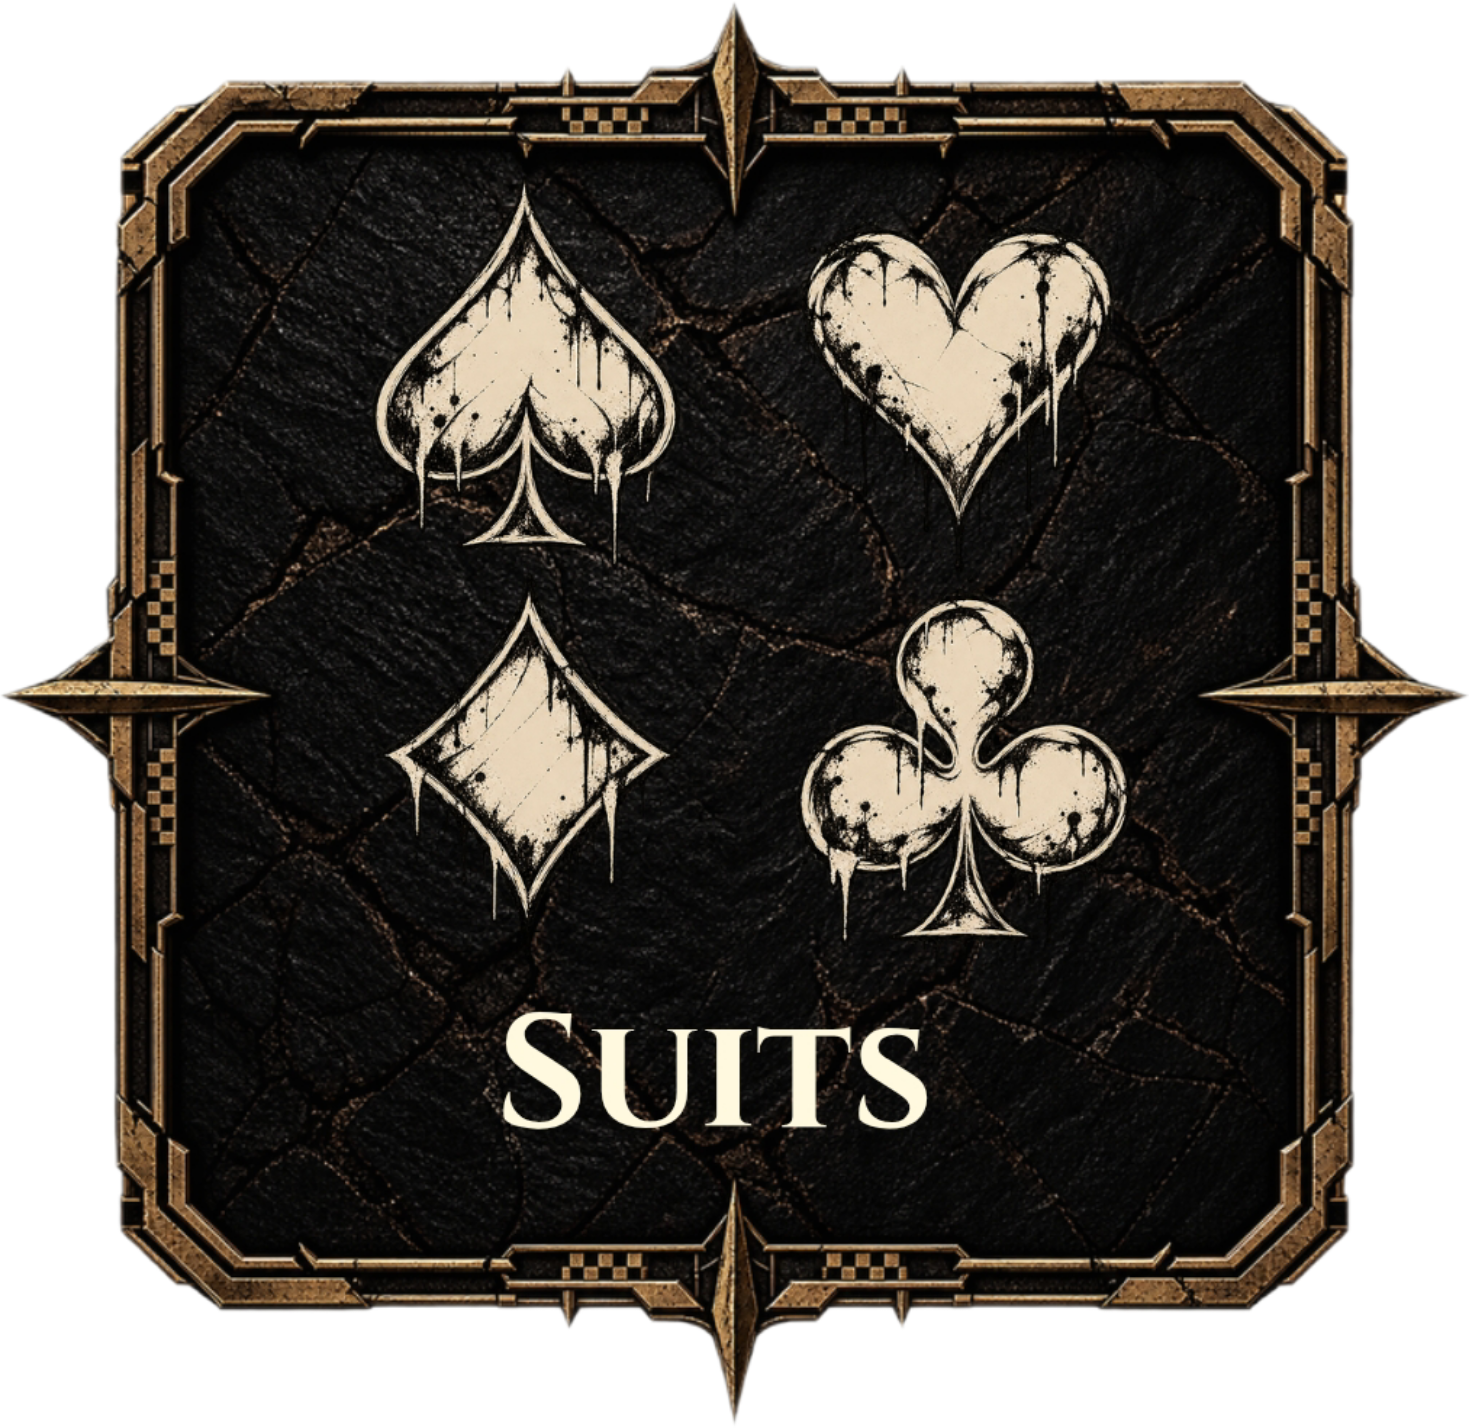
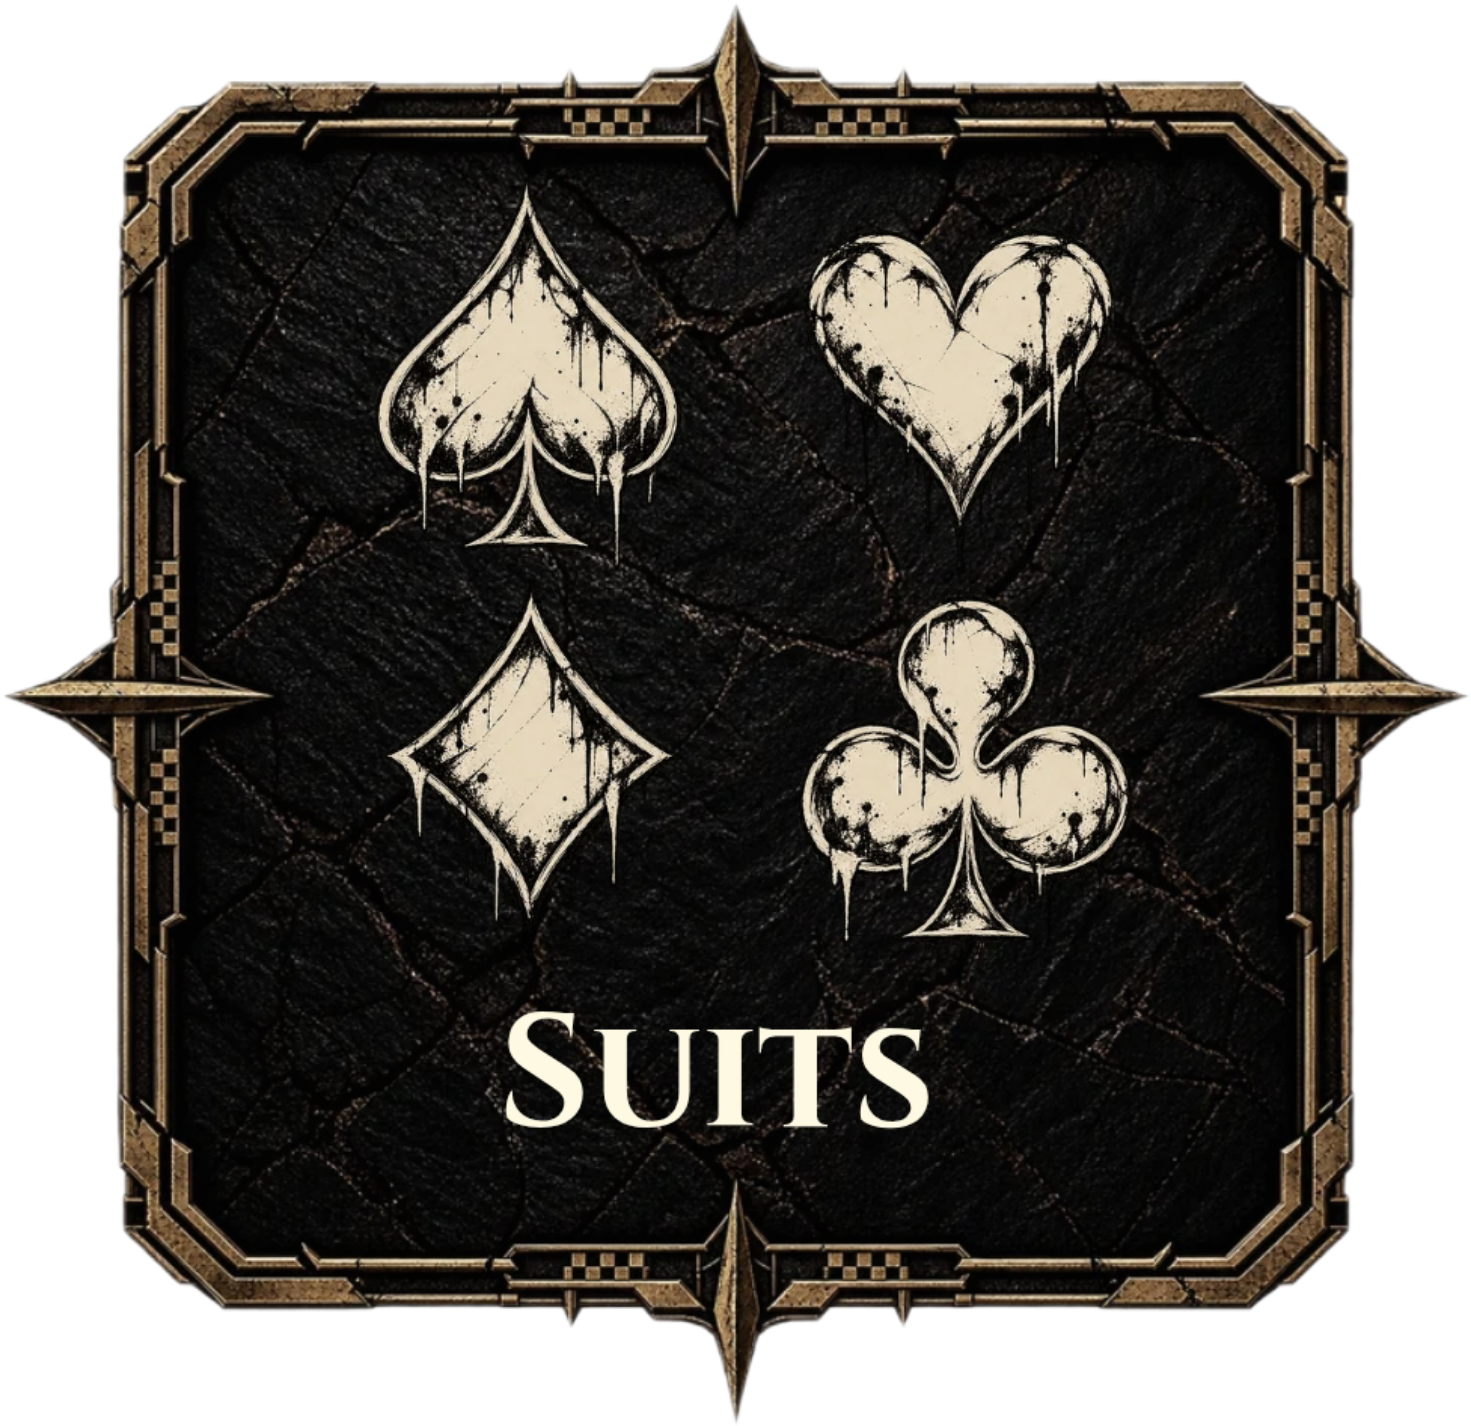
Show transparent SUITS tile artwork

diff --git a/artifacts/jesters-hand/components/suits/SuitsTile.tsx b/artifacts/jesters-hand/components/suits/SuitsTile.tsx
@@ -1,17 +1,13 @@
 import React from 'react';
-import { Image, StyleSheet } from 'react-native';
+import { Image } from 'react-native';
 
 export default function SuitsTile({ size }: { size: number }) {
   return (
     <Image
       source={require('../../assets/images/icon_suits.png')}
-      style={[s.image, { width: size, height: size }]}
+      style={{ width: size, height: size }}
       resizeMode="contain"
       accessibilityLabel="SUITS"
     />
   );
 }
-
-const s = StyleSheet.create({
-  image: { backgroundColor: '#000' },
-});
